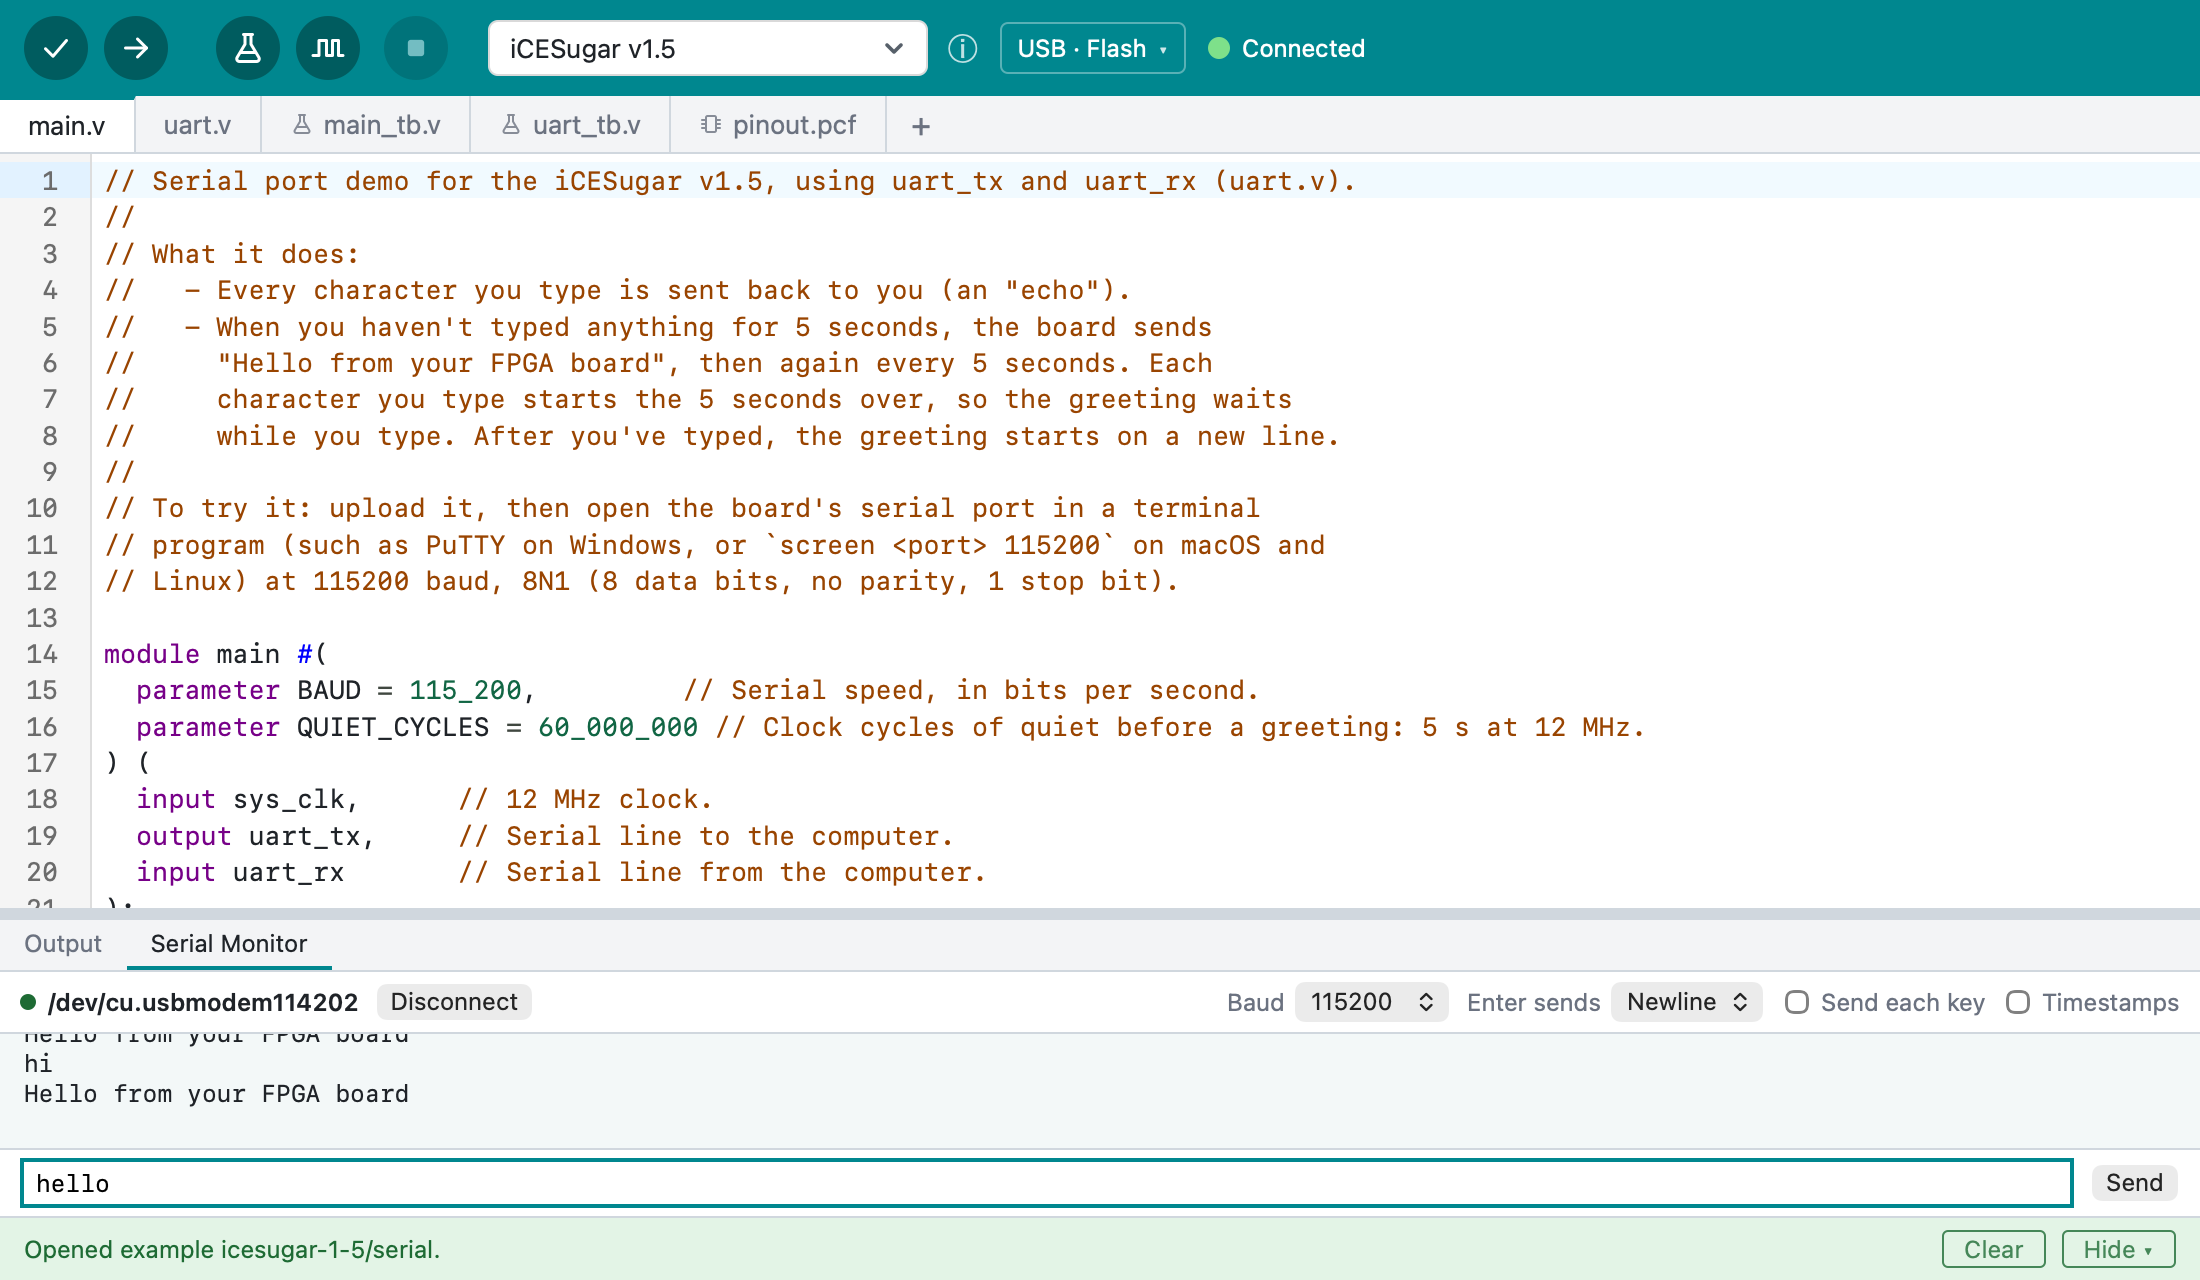
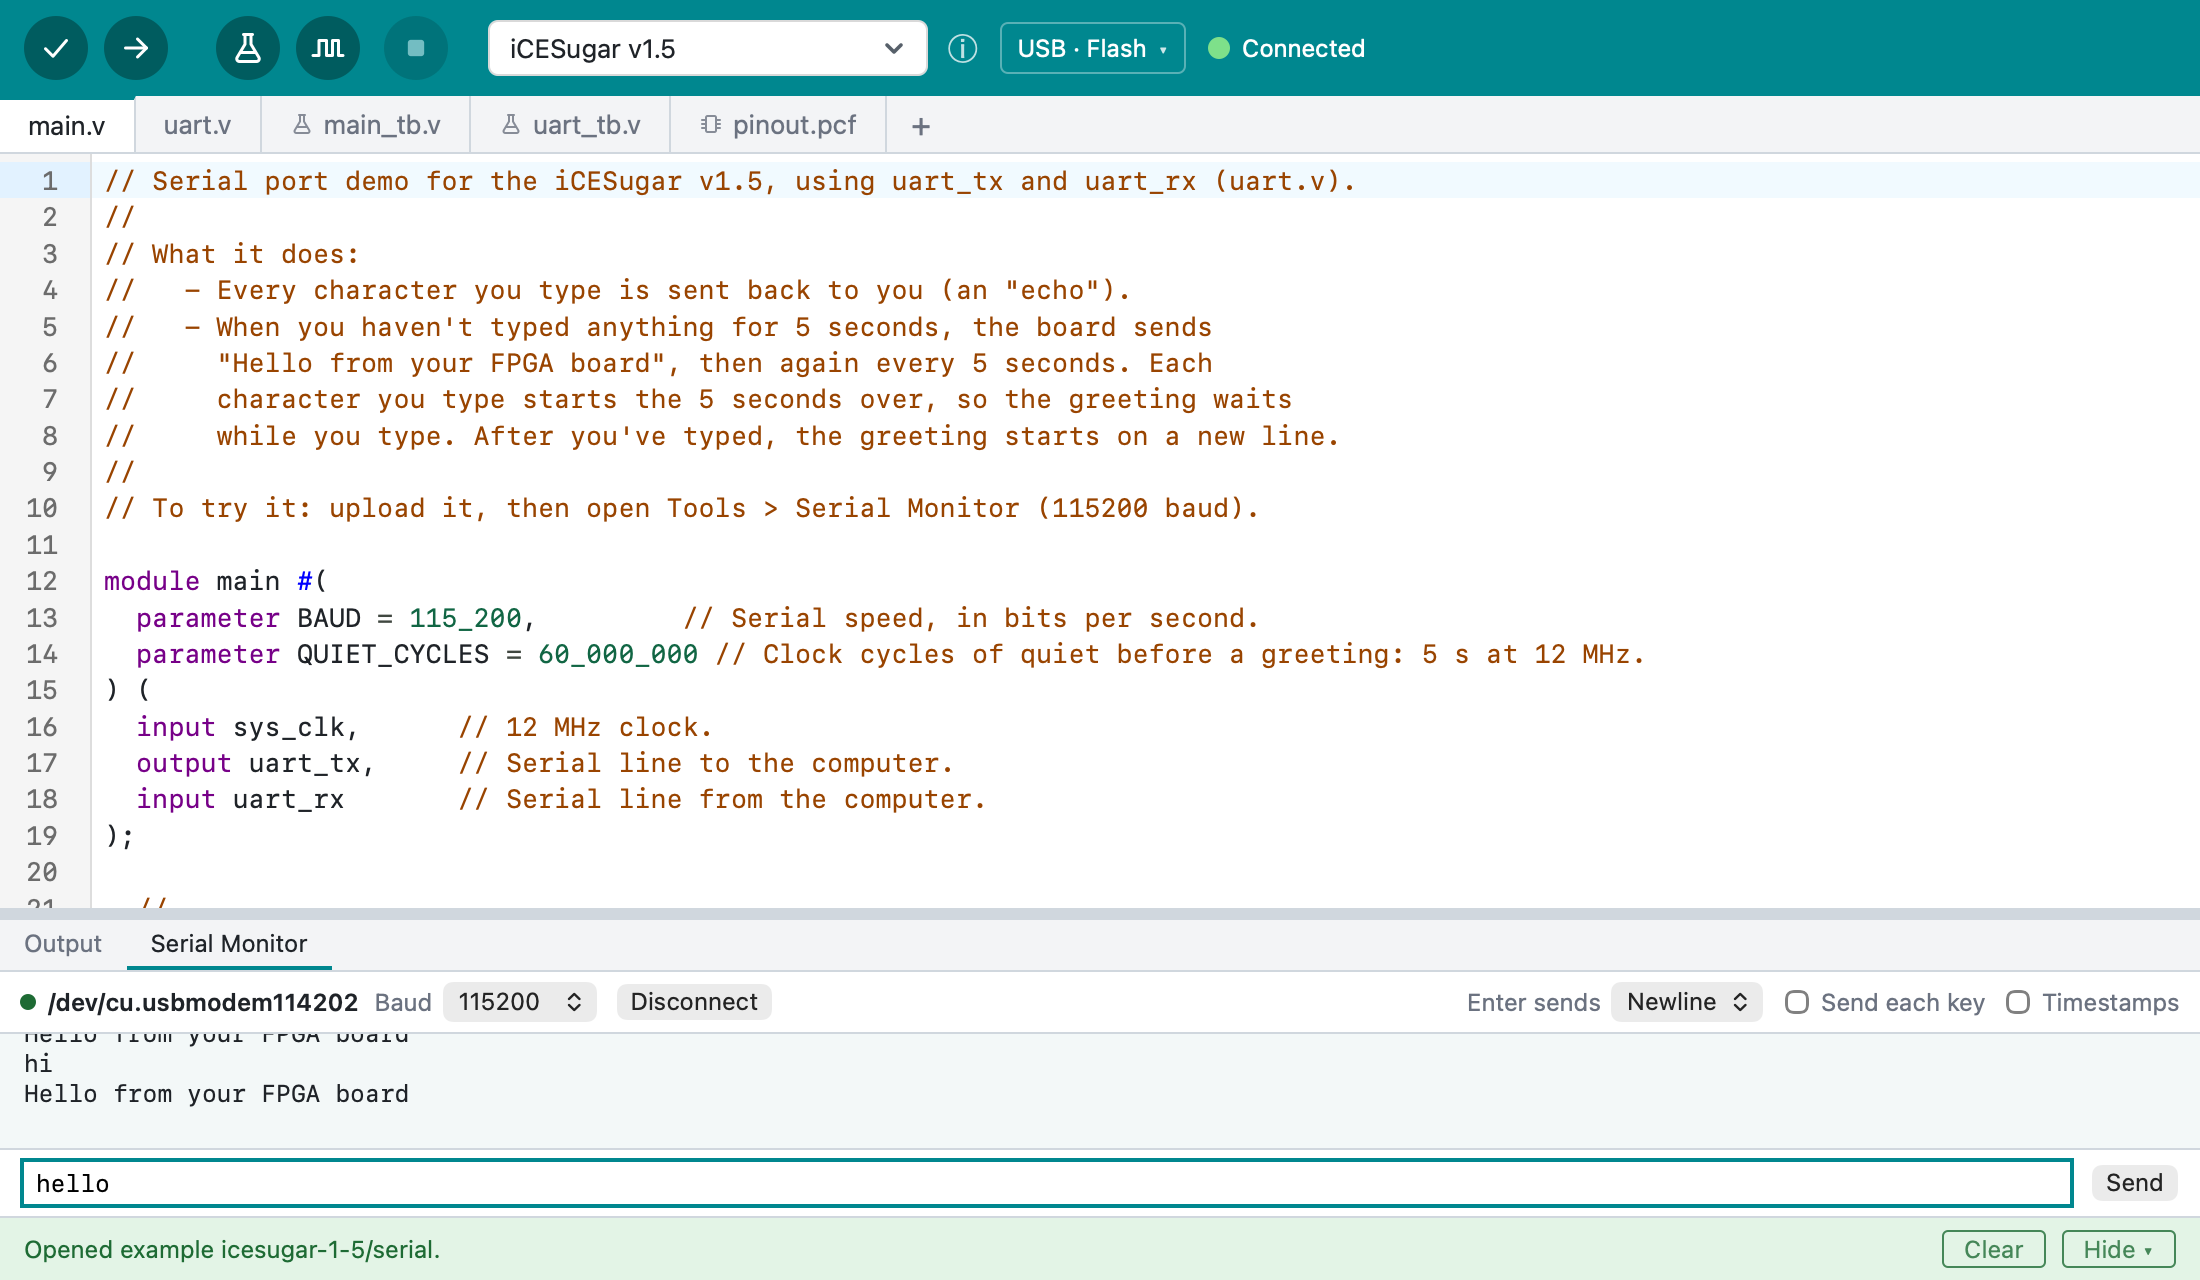
Serial Monitor: the Baud field between the port and Connect/Disconnect
The user's request: the speed next to the port it applies to. The docs'
screenshot is taken again.

diff --git a/ui/src/lib/SerialMonitor.svelte b/ui/src/lib/SerialMonitor.svelte
@@ -283,14 +283,7 @@
         <span title={chosen ? portTip(chosen) : undefined}>{chosen ? chosen.port : "No port"}</span>
       {/if}
     </span>
-    {#if open}
-      <button onclick={disconnect} title="Close the port, so other programs can open it">Disconnect</button>
-    {:else}
-      <button onclick={() => connect(chosen ?? undefined)} disabled={connecting}
-        >{connecting ? "Connecting…" : "Connect"}</button
-      >
-    {/if}
-    <span class="spacer"></span>
+    <!-- The speed next to the port: the two say what is open. -->
     <label class="field"
       >Baud
       <select
@@ -301,6 +294,14 @@
         {#each BAUDS as b (b)}<option value={String(b)}>{b}</option>{/each}
       </select>
     </label>
+    {#if open}
+      <button onclick={disconnect} title="Close the port, so other programs can open it">Disconnect</button>
+    {:else}
+      <button onclick={() => connect(chosen ?? undefined)} disabled={connecting}
+        >{connecting ? "Connecting…" : "Connect"}</button
+      >
+    {/if}
+    <span class="spacer"></span>
     <label class="field"
       >Enter sends
       <select aria-label="Line ending" bind:value={ending}>
